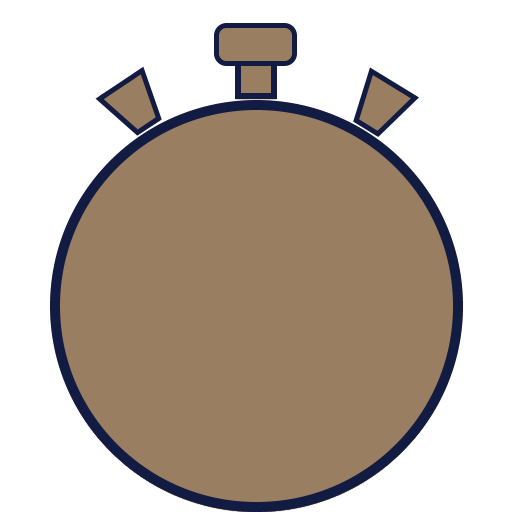
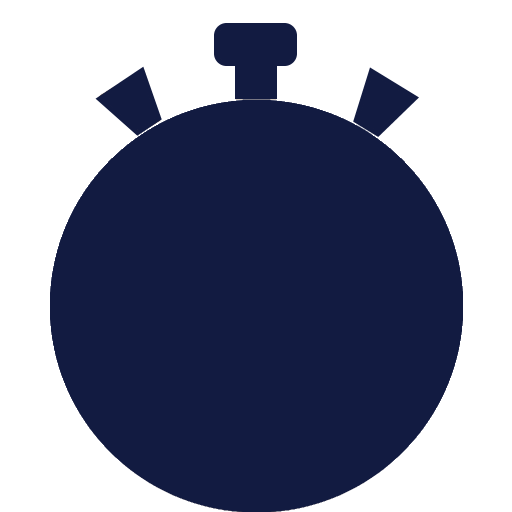
Edited Dashboard and other fixes

diff --git a/erp_ranger_app/lib/screens/dashboard.dart b/erp_ranger_app/lib/screens/dashboard.dart
@@ -10,6 +10,7 @@ import 'package:erp_ranger_app/screens/markers.dart';
 import 'package:erp_ranger_app/screens/patrol.dart';
 import 'package:erp_ranger_app/screens/shifts.dart';
 import 'package:erp_ranger_app/screens/leaderboard.dart';
+import 'package:erp_ranger_app/screens/ranger.dart';
 import 'dart:async';
 import 'package:erp_ranger_app/services/patrolData.dart';
 
@@ -242,7 +243,7 @@ class _DashboardScreenState extends State<DashboardScreen> {
               alignment: Alignment.center,
               decoration: new BoxDecoration(
                 image: new DecorationImage(
-                  image: new AssetImage('assets/images/2.png'),
+                  image: new AssetImage('assets/images/stopwatch.png'),
                   fit: BoxFit.contain,
                 ),
               ),
@@ -339,7 +340,7 @@ class _DashboardScreenState extends State<DashboardScreen> {
                           icon: Icon(Icons.message,color: Colors.white),
                           iconSize: 48.0,
                           onPressed: () {
-                            _openScreen("Report");
+                            _openScreen("Reports");
                           }),
                       Text('Reports',style:TextStyle(fontSize: 20.0,color: Colors.white))
                     ],
@@ -625,31 +626,32 @@ class _DashboardScreenState extends State<DashboardScreen> {
   }*/
 
   void _openScreen(String title) {
-    if (title == "Shifts") {
-      //Navigator.pop(context);
-      Navigator.push(context, new MaterialPageRoute(
-          builder: (context) => new ShiftsScreen()));
-    } else if (title == "Reports"){
-      //Navigator.pop(context);
-      Navigator.push(context, new MaterialPageRoute(
-          builder: (context) => new ReportScreen()));
-    /*} else if (title == "View Assets") {
-      //Navigator.pop(context);
-      Navigator.push(context, new MaterialPageRoute(
-          builder: (context) => new AssetsScreen(myAssets: false)));*/
-    } else if (title == "Log Feedback") {
-      Navigator.push(context, new MaterialPageRoute(
-          builder: (context) => new FeedbackScreen()));
-    } else if (title == "Markers") {
+    if (title == "Markers") {
       Navigator.push(context, new MaterialPageRoute(
           builder: (context) => new MarkersScreen()));
-    } else if (title == "Patrol") {
+    } else if (title == "Reports"){
       Navigator.push(context, new MaterialPageRoute(
-          builder: (context) => new PatrolScreen()));
+          builder: (context) => new ReportScreen()));
+    } else if (title == "Shifts") {
+      Navigator.push(context, new MaterialPageRoute(
+      builder: (context) => new ShiftsScreen()));
     } else if (title == "Leaderboard") {
       Navigator.push(context, new MaterialPageRoute(
           builder: (context) => new LeaderboardScreen()));
-    }
+    } else if (title == "Rangers") {
+      Navigator.push(context, new MaterialPageRoute(
+          builder: (context) => new RangersScreen()));
+    }/* else if (title == "Patrol") {
+      Navigator.push(context, new MaterialPageRoute(
+          builder: (context) => new PatrolScreen()));
+      } else if (title == "View Assets") {
+      //Navigator.pop(context);
+      Navigator.push(context, new MaterialPageRoute(
+          builder: (context) => new AssetsScreen(myAssets: false)));
+      } else if (title == "Log Feedback") {
+      Navigator.push(context, new MaterialPageRoute(
+          builder: (context) => new FeedbackScreen()));
+      }*/
   }
 
   /*Card makeDashboardItem(String title, IconData icon) {

diff --git a/erp_ranger_app/lib/screens/ranger.dart b/erp_ranger_app/lib/screens/ranger.dart
@@ -86,18 +86,15 @@ class RangersState extends State<RangersScreen> {
     List<Widget> entries = new List<Widget>();
     QuerySnapshot userQuerySnapshot = await _firestore.collection('users').getDocuments();
     List<DocumentSnapshot> userDocumentList = userQuerySnapshot.documents;
+    userDocumentList.removeWhere((a)=>a.data['role']=='Admin');
+    userDocumentList.removeWhere((a)=>a.data['points']==null);
+    userDocumentList.sort((a,b)=>(b.data['points'].compareTo(a.data['points'])));
 
     QuerySnapshot patrolQuerySnapshot = await Firestore.instance.collection('patrol').where('park', isEqualTo: await Park.getParkId()).getDocuments();
     List<DocumentSnapshot> patrolDocumentList = patrolQuerySnapshot.documents;
     patrolDocumentList.removeWhere((a)=>a.data['end']!=null);
 
-    print('user:'+userDocumentList.length.toString());
-    print('patrol:'+patrolDocumentList.length.toString());
-
     bool alternate = true;
-    patrolDocumentList.forEach((document)=>{
-      print(document.data['end'])
-    });
 
     for(DocumentSnapshot userDocument in userDocumentList) {
       if(patrolDocumentList.firstWhere((patrol)=>patrol.data['user']==userDocument.data['uid'], orElse: () => null)!=null)
